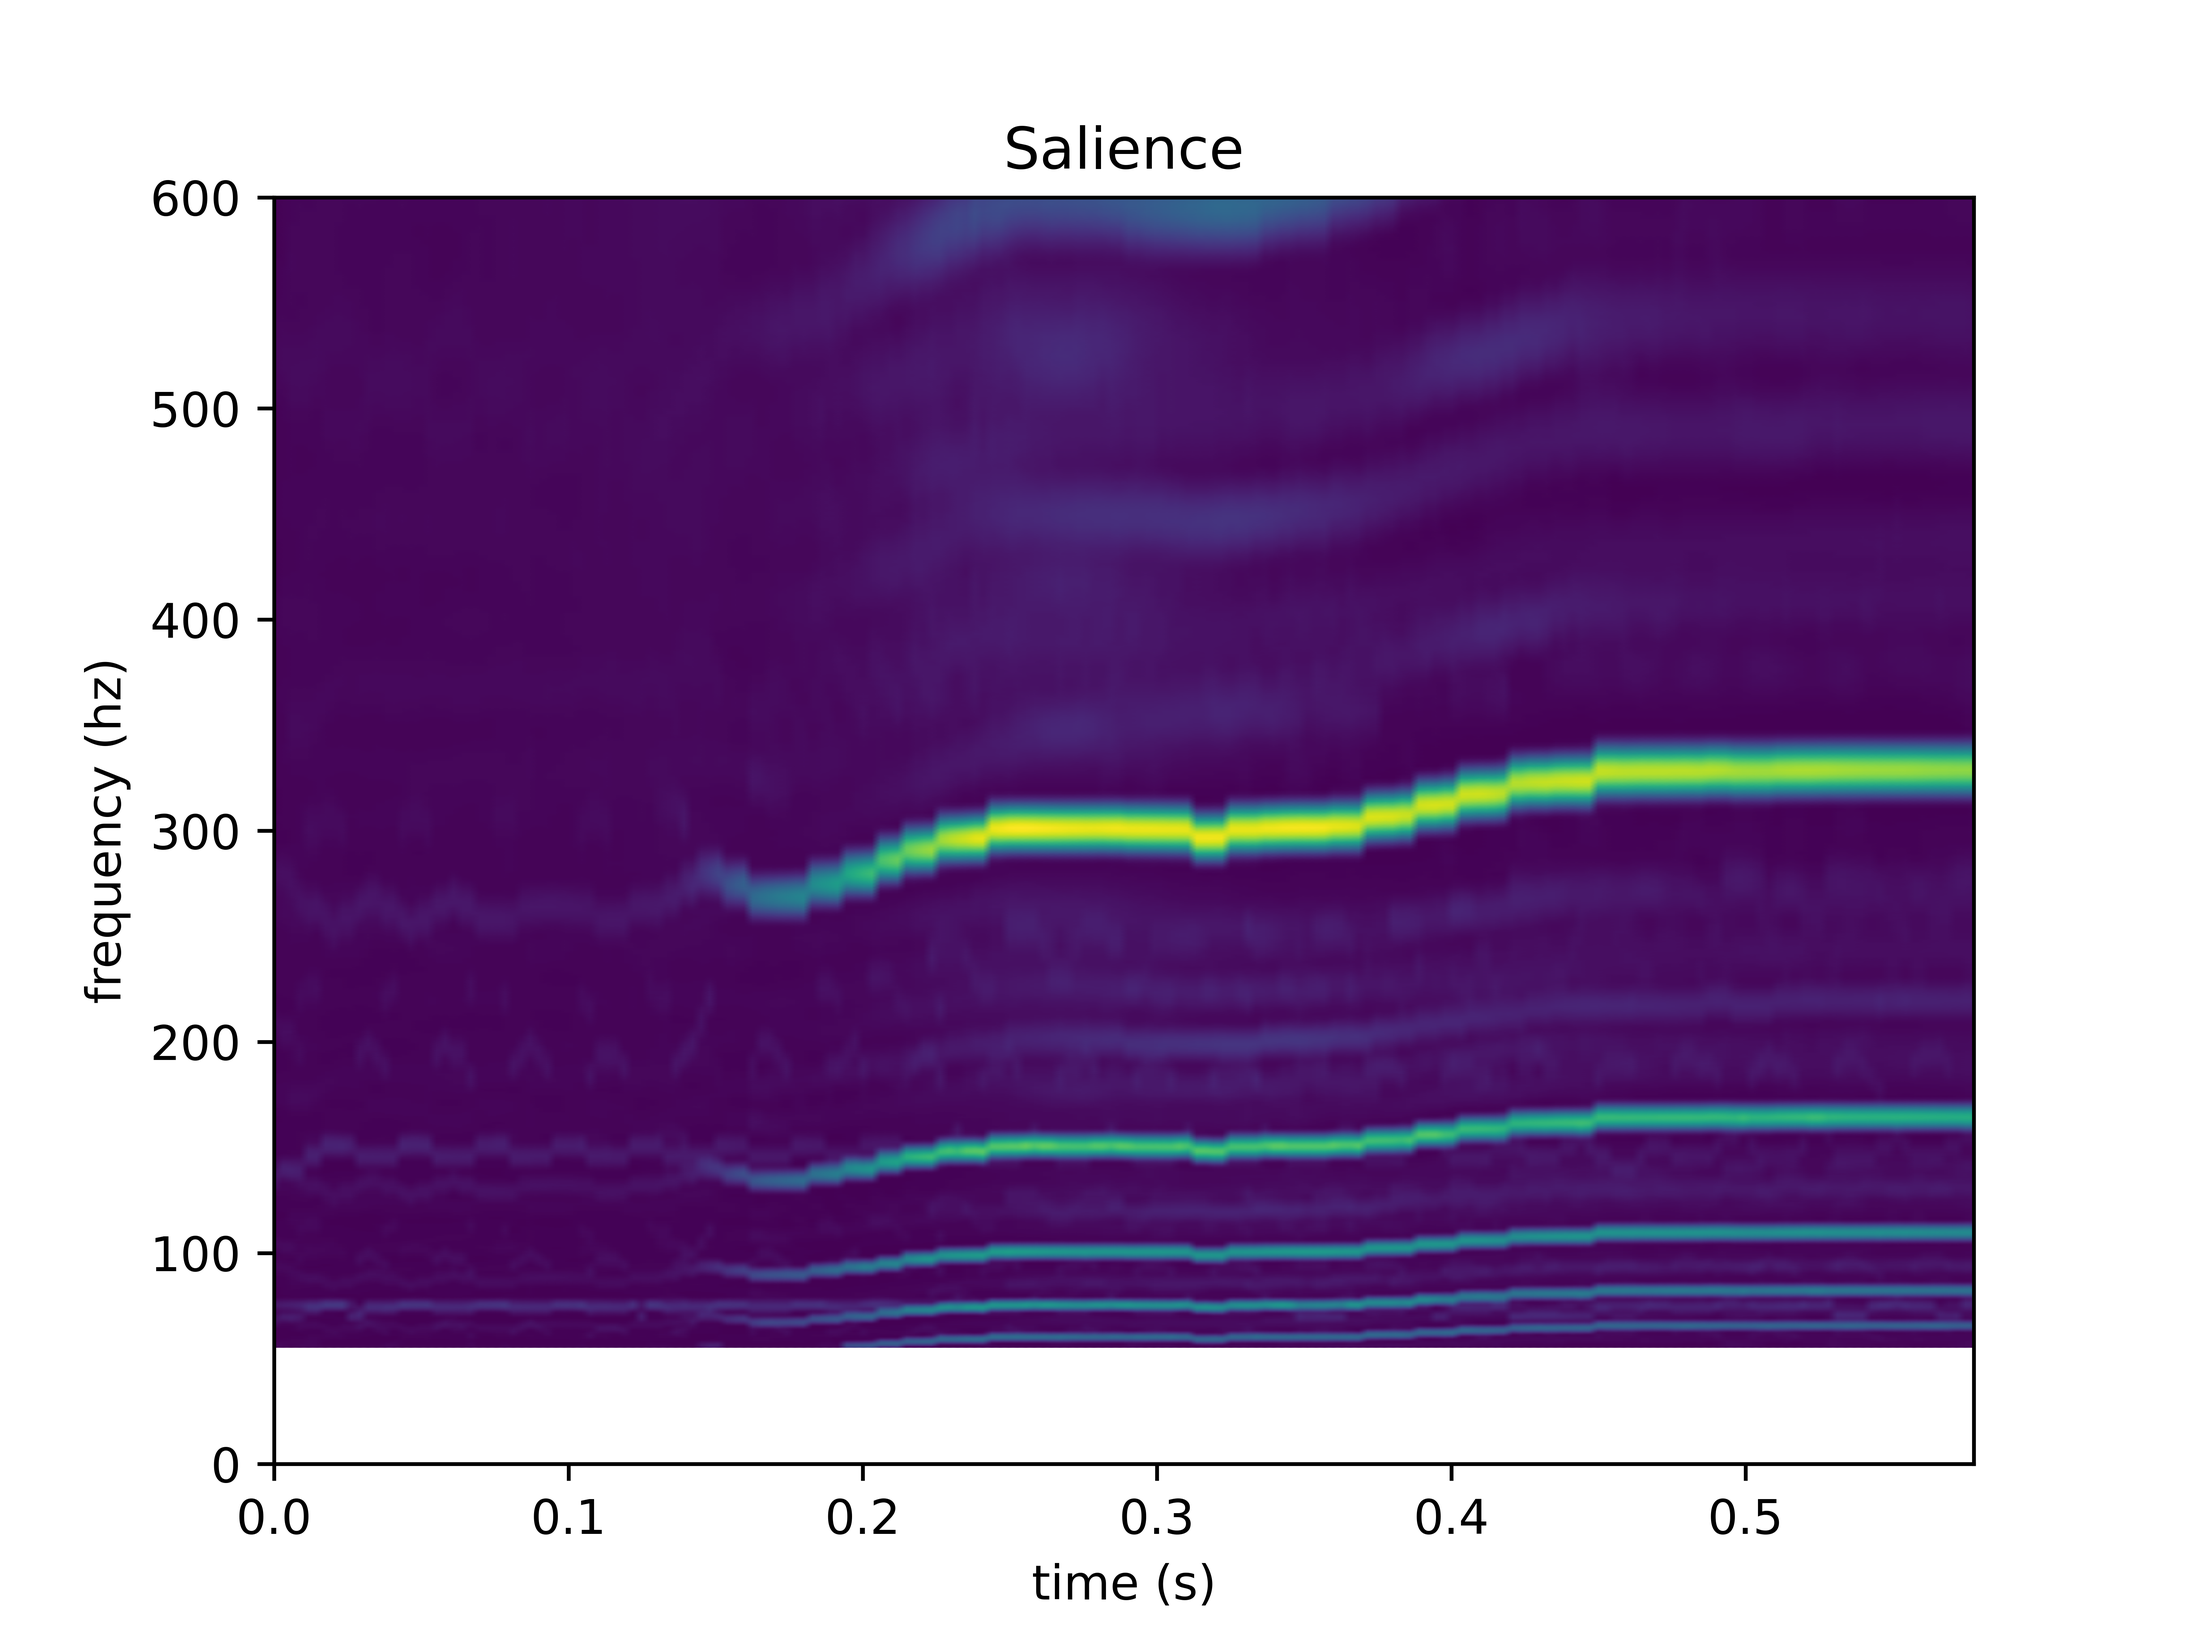
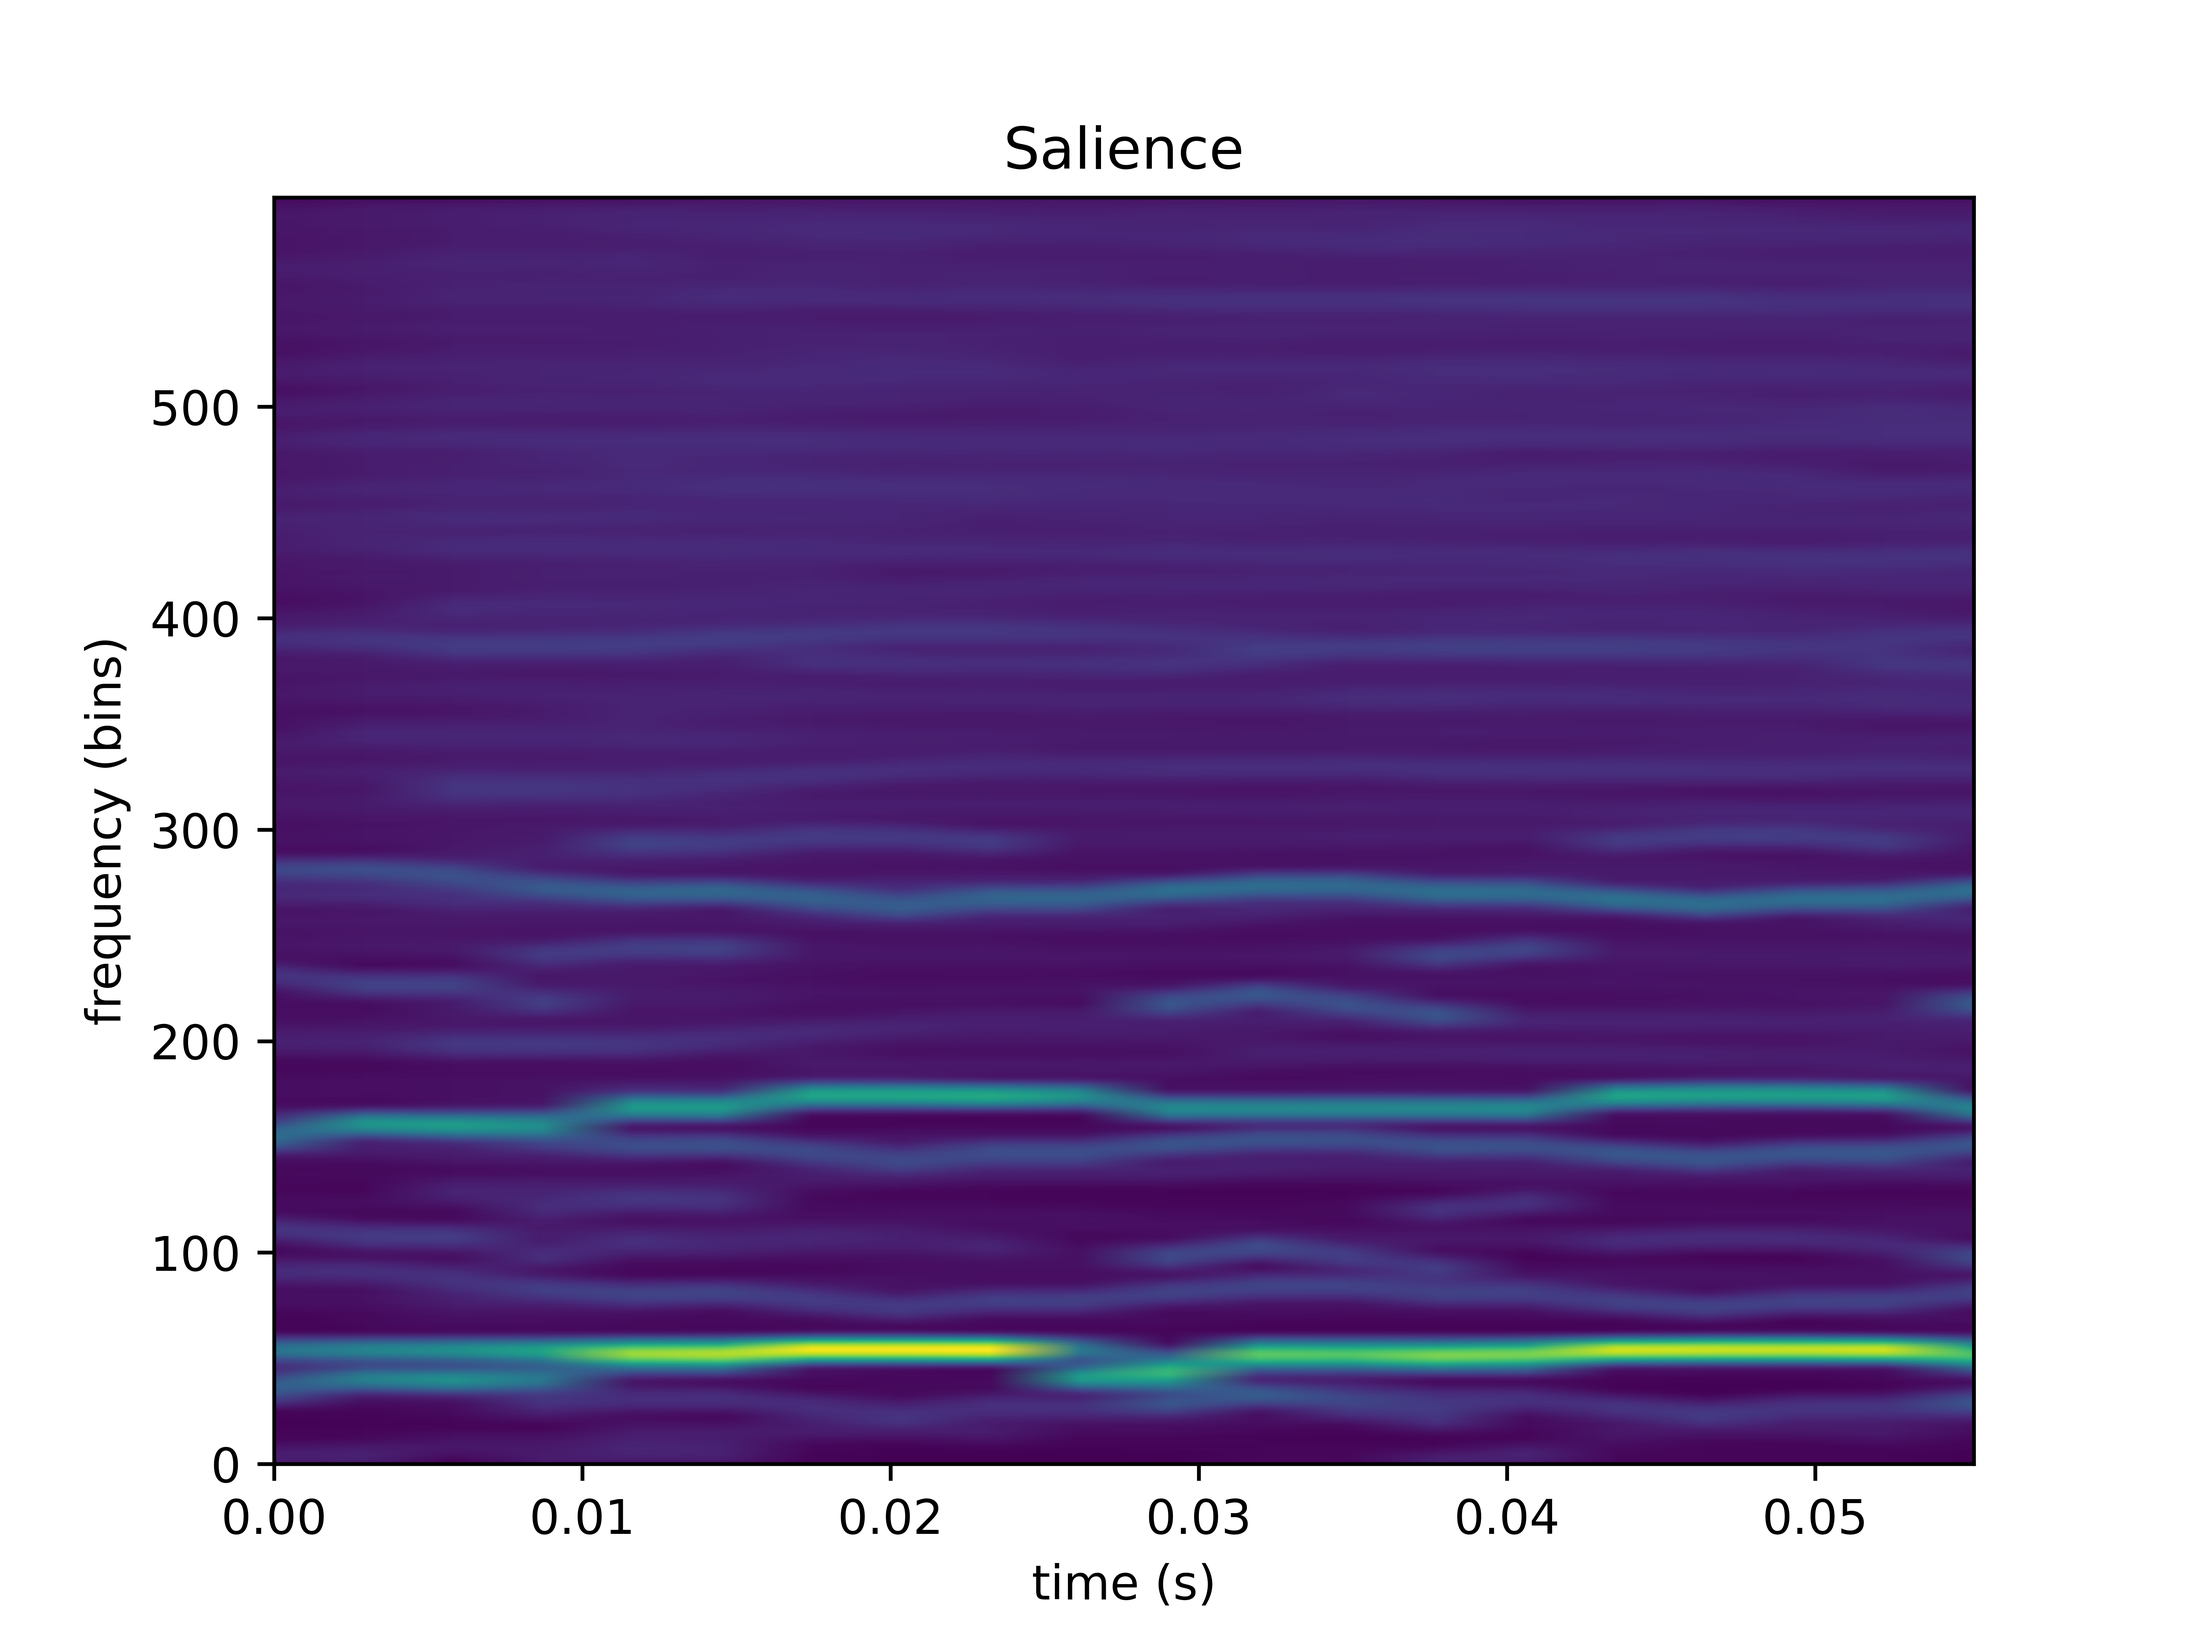
save salience array

diff --git a/salience/salience.py b/salience/salience.py
@@ -108,11 +108,10 @@ def compute_salience(magnitudes, f, i):
 def plot_saliences(t, saliences):
     bins = np.arange(n_bins)
     # take the middle frequency in each bin
-    frequencies = 55 * (2 ** ((10 * bins + 5)/1200))
-    plt.pcolormesh(t, frequencies, saliences, shading='gouraud')
+    # frequencies = 55 * (2 ** ((10 * bins + 5)/1200))
+    plt.pcolormesh(t, bins, saliences, shading='gouraud')
     plt.title('Salience')
-    plt.ylabel('frequency (hz)')
-    plt.ylim([0, 600])
+    plt.ylabel('frequency (bins)')
     plt.xlabel('time (s)')
     plt.savefig('./output/salience', dpi=1024)
 
@@ -122,18 +121,22 @@ def compute_saliences(f, t, zxx, n_workers):
 
     # take only magnitudes
     zxx = np.abs(zxx)
-    t_size = 200
+    # 1/3 of the time
+    t_size = len(t) // 3 + 1
     saliences = np.zeros((n_bins, t_size))
 
     # use multiprocessing to compute salience
     pool = mp.Pool(processes=n_workers)
     jobs = [(zxx[:, i], f, i) for i in range(t_size)]
-    results = pool.starmap(compute_salience, jobs)
+    chunksize = int(t_size / (n_workers * 5))
+    chunksize = 1 if chunksize < 1 else chunksize
+    results = pool.starmap(compute_salience, jobs, chunksize=chunksize)
     pool.close()
     pool.join()
 
     for i, salience in results:
         saliences[:, i] = salience
 
-    plot_saliences(t[:t_size], saliences)
     print(f'salience done: {time.time() - start_time : .2f}s')
+    plot_saliences(t[:t_size], saliences)
+    np.save('./output/salience', saliences)
